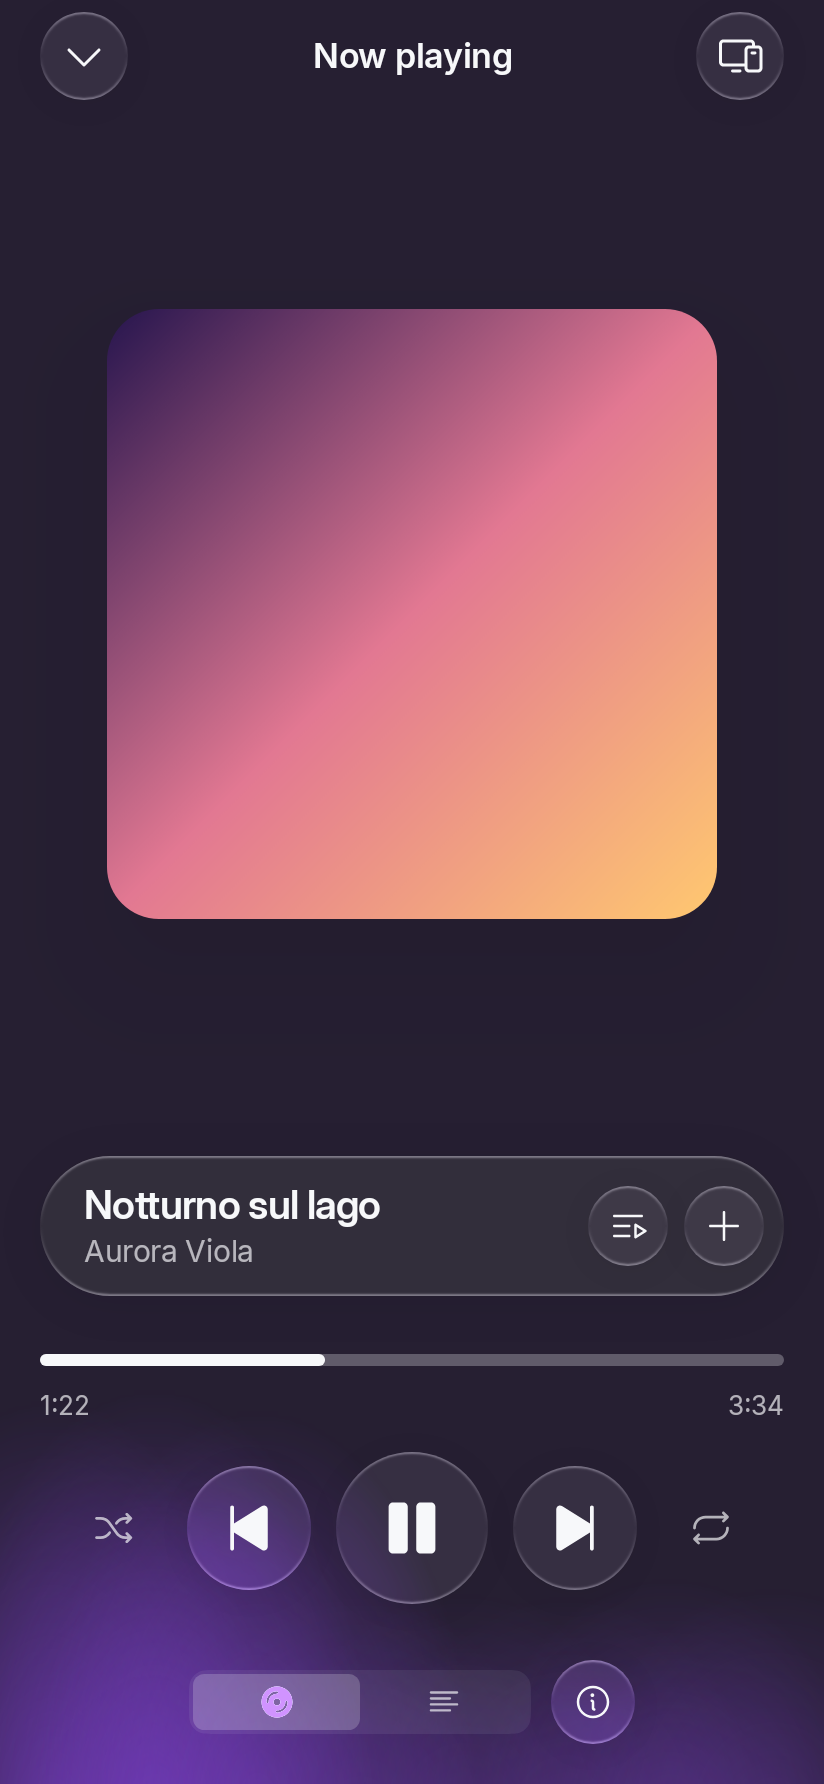
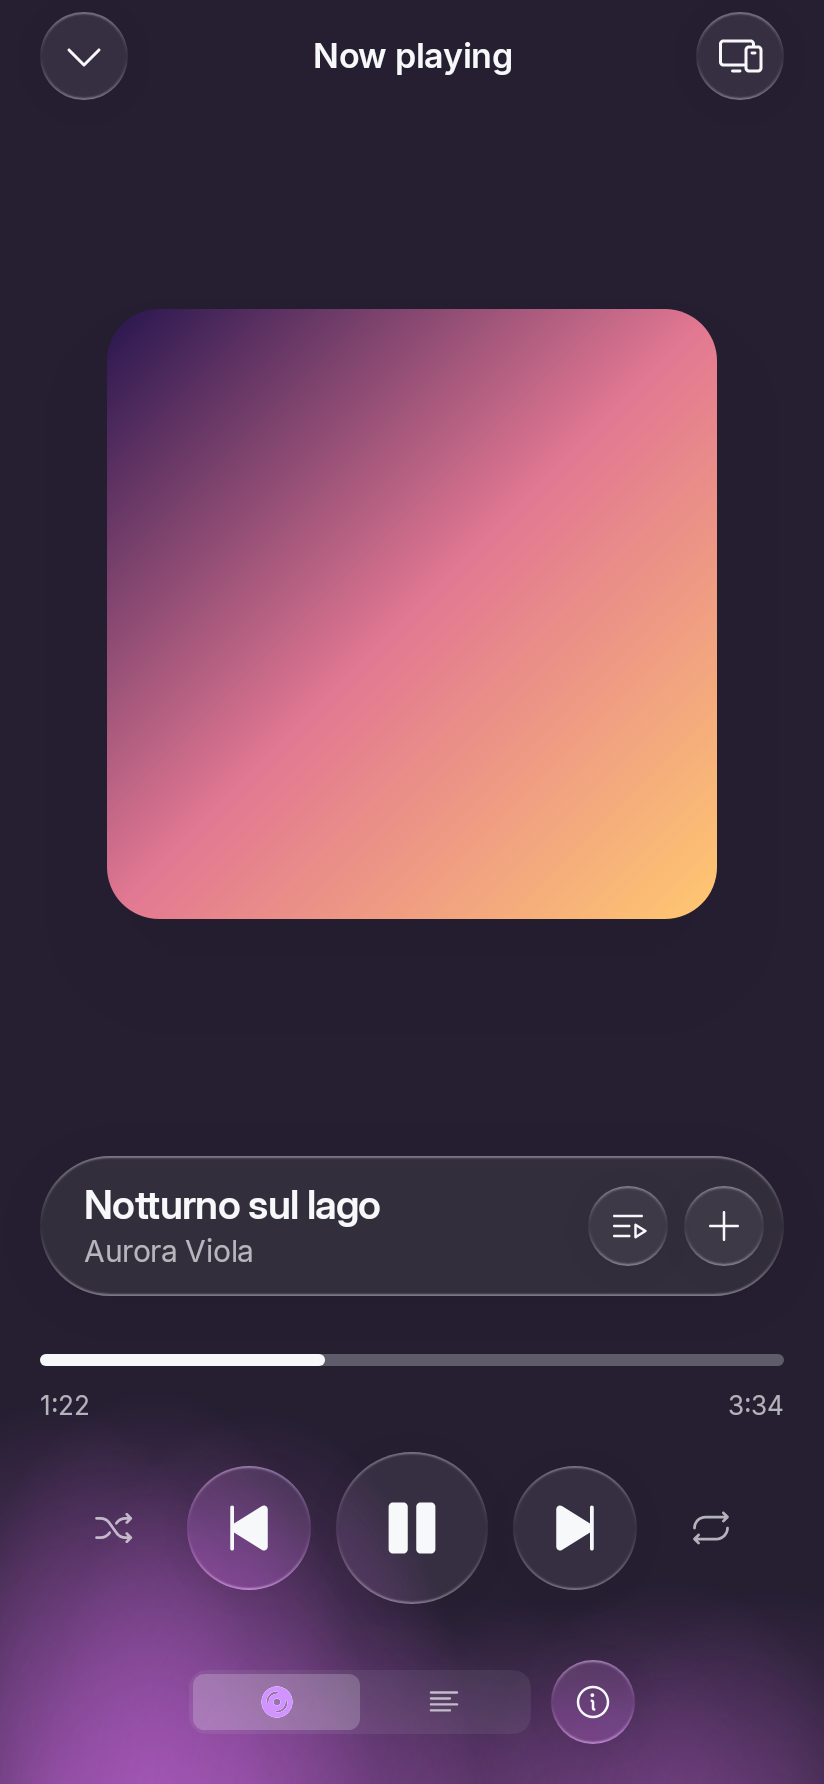
Use violet fuchsia music light over Canvas and video

Changed region(s): [[0.0, 0.8324, 0.5765, 1.0], [0.6068, 0.9557, 0.9405, 1.0]]

diff --git a/app/src/main/java/dev/lelonio/square/ui/player/PlayerScreen.kt b/app/src/main/java/dev/lelonio/square/ui/player/PlayerScreen.kt
@@ -482,10 +482,6 @@ fun PlayerScreen(
         targetValue = if (canvasReady || videoOn || panel != PlayerPanel.NONE) 1f else 0f,
         animationSpec = tween(420), label = "audioLightOrigin")
     val lightColor = auraColors.firstOrNull() ?: MaterialTheme.colorScheme.primary
-    val lightFallback = MaterialTheme.colorScheme.primary
-    val canvasLightColor = remember(auraColors, lightColor, lightFallback) {
-        contrastingAudioLightColor(lightColor, auraColors, lightFallback)
-    }
     val lightContrast = animateFloatAsState(
         targetValue = if (canvasReady || videoOn) 1f else 0f,
         animationSpec = tween(420), label = "audioLightContrast")
@@ -607,7 +603,7 @@ fun PlayerScreen(
                 cover = {
                     if (lightCoverBounds == androidx.compose.ui.geometry.Rect.Zero) null
                     else lightCoverBounds.translate(-lightOrigin)
-                }, bottomMix = { lightBottom.value }, contrastColor = canvasLightColor, contrastMix = { lightContrast.value })
+                }, bottomMix = { lightBottom.value }, contrastColor = CanvasAudioLightColor, contrastMix = { lightContrast.value })
 
             // Only over a Canvas, and deliberately light. Clips are graded for
             // their own sake and some are near-white; this buys the controls

diff --git a/app/src/main/java/dev/lelonio/square/ui/player/AudioLight.kt b/app/src/main/java/dev/lelonio/square/ui/player/AudioLight.kt
@@ -81,18 +81,5 @@ internal fun AudioLightHalo(frame: State<AudioLightFrame?>, color: Color, cover:
     }
 }
 
-/** A different cover swatch for light over Canvas; monochrome palettes get a related accent. */
-internal fun contrastingAudioLightColor(base: Color, palette: List<Color>, fallback: Color): Color {
-    fun hsv(color: Color) = FloatArray(3).also { android.graphics.Color.colorToHSV(color.toArgb(), it) }
-    val primary = hsv(base)
-    fun separation(hue: Float): Float {
-        val distance = kotlin.math.abs(hue - primary[0])
-        return minOf(distance, 360f - distance)
-    }
-    if (primary[1] < .1f) return fallback
-    val candidate = palette.map { it to hsv(it) }.filter { it.second[1] >= .2f }
-        .maxByOrNull { separation(it.second[0]) }
-    if (candidate != null && separation(candidate.second[0]) >= 45f) return candidate.first
-    // No frame readback or colour polling: one stable hue per cover, not a colour chasing the video.
-    return Color(android.graphics.Color.HSVToColor(floatArrayOf((primary[0] + 100f) % 360f, .60f, .95f)))
-}
+/** The requested violet/fuchsia light over Canvas and music video, independent of artwork hues. */
+internal val CanvasAudioLightColor = Color(0xFFD36BE8)

diff --git a/docs/audio-light-validation.md b/docs/audio-light-validation.md
@@ -62,3 +62,11 @@ Sul telefono, Canvas pronto e video usano il colore della palette più distante 
 Test nuovi: tre casi di palette; ingresso AOD con rilascio dell'albero interattivo nei primi frame, posizione del titolo invariata, pixel della copertina presenti e attenuati, ritorno ai controlli, assenza di immagine low-bit. Render AOD a 192/216/240 dp e low-bit, ingresso/ritorno, oltre agli 11 render telefono/tablet e mini player. Le prove automatiche non verificano il comportamento del firmware Samsung o i consumi fisici; questi controlli restano nella checklist.
 
 Cinque suite: 187 test senza errori (7 core, 61 protocollo, 72 Wear, 21 app, 26 engine-wear). Cinque test AOD separati passati nella variante Debug, compresa la transizione di andata/ritorno. Nei render AOD il 11,37% / 11,70% / 14,05% dei pixel interni al disco è diverso dal nero a 240 / 192 / 216 dp; low-bit 2,34%. Sono misure di immagini statiche, non della luminosità del pannello o della batteria.
+
+## Colore Canvas 1.6.4
+
+Su richiesta dell'utente, sostituita la scelta automatica del colore alternativo con un viola/fucsia fisso (`#D36BE8`) sopra Canvas e video musicale. La tonalità alternativa della 1.6.3 poteva produrre un verde poco gradito. Altezza, intensità, geometria e transizione restano uguali; copertina e mini player conservano la tinta della copertina. Nessuna modifica funzionale o visiva sul Watch, né al Fluid Engine.
+
+Rimossi i tre test del selettore di palette eliminato; i render delle schermate reali verificano ora direttamente il colore richiesto, Canvas pronto/in caricamento, video e ritorno all'aspetto senza effetti. Le verifiche fisiche già elencate restano da completare.
+
+Passati gli 11 render telefono/tablet e mini player e le cinque suite (184 test, senza errori). Gli APK minificati sono pubblicati insieme come 1.6.4 (16), con la stessa firma di release.
